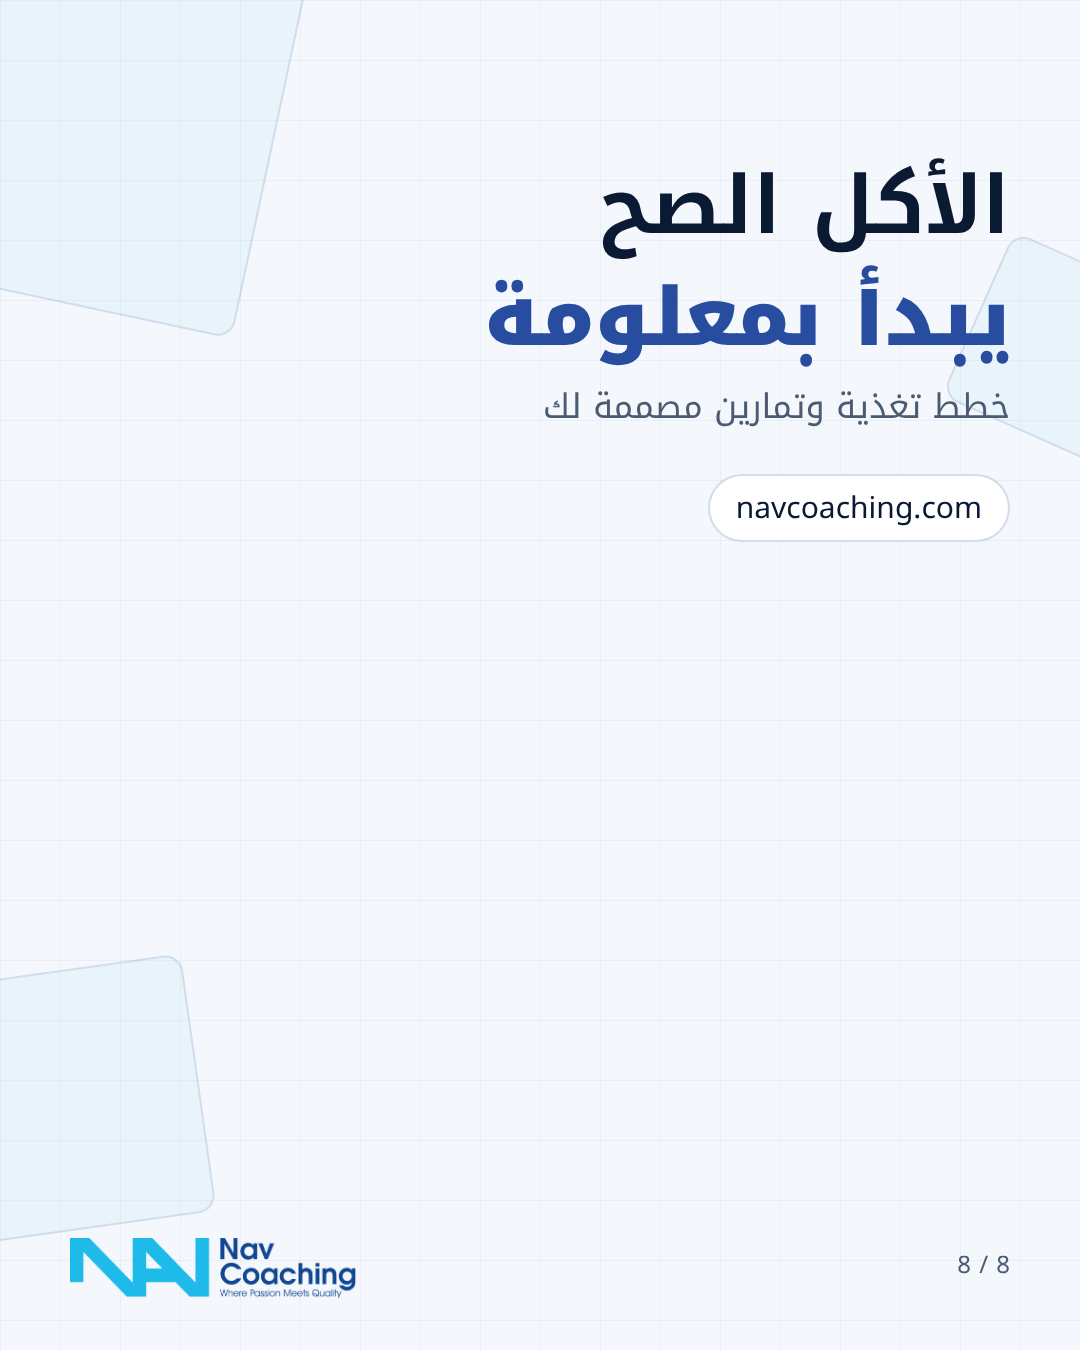
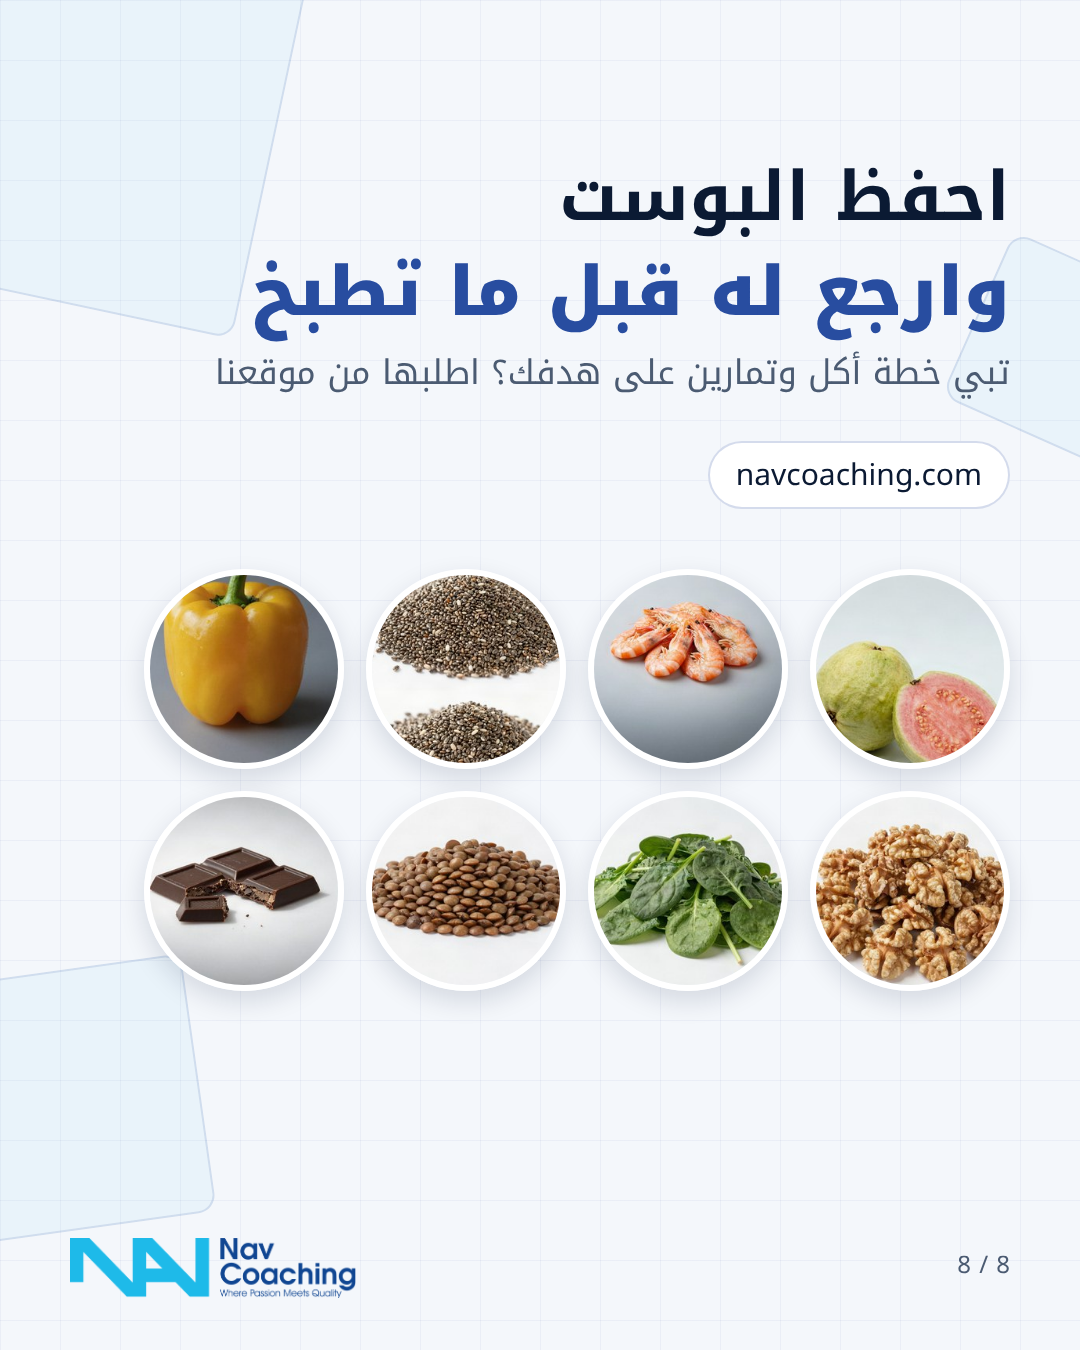
foods carousel: verified values/labels, new hook cover, clearer end slide
Claude-Session: https://claude.ai/code/session_014K8VAaJoHdbEmLTmDkRNee

Changed region(s): [[0.2139, 0.1244, 0.9472, 0.7467], [0.1222, 0.4044, 0.5194, 0.7467], [0.3056, 0.28, 0.3361, 0.3111]]

diff --git a/instagram/foods/slides.html b/instagram/foods/slides.html
@@ -26,19 +26,19 @@ h1 b{color:#284da0}
 .wrap:has(.note) .row{height:88px}.wrap:has(.note) .ph{width:78px;height:78px}
 </style></head><body><div id="root"></div><script>
 const D=[
-['بروتين','أعلى الأطعمة <b>بالبروتين</b>','لكل 100 غرام • اللحوم والأسماك مطبوخة','غ',[['صدر دجاج',31],['تونة',30],['ديك رومي',29],['لحم بقر قليل الدهن',26],['سلمون',25],['روبيان',24],['توفو',17],['بيض',13]]],
-['ألياف','أعلى الأطعمة <b>بالألياف</b>','لكل 100 غرام','غ',[['بذور الشيا',34],['بذور الكتان',27],['فشار',15],['لوز',13],['شوكولاتة داكنة',11],['شوفان',10],['عدس مطبوخ',8],['أفوكادو',7]]],
+['بروتين','أعلى الأطعمة <b>بالبروتين</b>','لكل 100 غرام • اللحوم والأسماك مطبوخة','غ',[['صدر دجاج',31],['تونة مطبوخة',30],['ديك رومي',29],['لحم بقر قليل الدهن',26],['سلمون',25],['روبيان',24],['توفو صلب',17],['بيض',13]]],
+['ألياف','أعلى الأطعمة <b>بالألياف</b>','لكل 100 غرام','غ',[['بذور الشيا',34],['بذور الكتان',27],['فشار بدون زيت',15],['لوز',13],['شوكولاتة داكنة',11],['شوفان',10],['عدس مطبوخ',8],['أفوكادو',7]]],
 ['فيتامين C','أعلى الأطعمة <b>بفيتامين C</b>','لكل 100 غرام','ملغ',[['جوافة',228],['فلفل أصفر',184],['فلفل أحمر',128],['كيوي',93],['بروكلي',89],['بابايا',61],['فراولة',59],['برتقال',53]]],
-['مغنيسيوم','أعلى الأطعمة <b>بالمغنيسيوم</b>','لكل 100 غرام','ملغ',[['بذور الكتان',392],['بذور الشيا',335],['كاجو',290],['لوز',270],['شوكولاتة داكنة',230],['شوفان',138],['سبانخ',87],['فاصوليا سوداء',70]]],
-['أوميغا 3','أعلى الأطعمة <b>بأوميغا 3</b>','لكل 100 غرام','غ',[['بذور الكتان',22.8],['بذور الشيا',17.8],['جوز',9.1],['ماكريل',2.7],['سلمون',2.3],['سردين',1.5]],'⚠ أوميغا 3 النباتي (ALA) يتحول منه 5 إلى 10% فقط إلى EPA/DHA — الأسماك أفضل مصدر مباشر.'],
-['حديد','أعلى الأطعمة <b>بالحديد</b>','لكل 100 غرام','ملغ',[['شوكولاتة داكنة',11.9],['بلح البحر',6.7],['كاجو',6.7],['كبدة بقر',6.5],['توفو',5.4],['سبانخ',3.6],['عدس',3.3],['لحم بقر',2.6]],'⚠ حديد اللحوم يمتصه الجسم أفضل بـ 2 إلى 3 مرات من الحديد النباتي.']];
-const IM={"صدر دجاج": "chicken", "تونة": "tuna", "ديك رومي": "turkey", "لحم بقر قليل الدهن": "beef", "سلمون": "salmon", "روبيان": "shrimp", "توفو": "tofu", "بيض": "eggs", "بذور الشيا": "chia", "بذور الكتان": "flax", "فشار": "popcorn", "لوز": "almonds", "شوكولاتة داكنة": "choc", "شوفان": "oats", "عدس مطبوخ": "lentils", "عدس": "lentils", "أفوكادو": "avocado", "جوافة": "guava", "فلفل أصفر": "ypep", "فلفل أحمر": "rpep", "كيوي": "kiwi", "بروكلي": "broccoli", "بابايا": "papaya", "فراولة": "straw", "برتقال": "orange", "كاجو": "cashews", "سبانخ": "spinach", "فاصوليا سوداء": "bbeans", "جوز": "walnuts", "ماكريل": "mackerel", "سردين": "sardines", "بلح البحر": "mussels", "كبدة بقر": "liver", "لحم بقر": "beef"};
+['مغنيسيوم','أعلى الأطعمة <b>بالمغنيسيوم</b>','لكل 100 غرام','ملغ',[['بذور الكتان',392],['بذور الشيا',335],['كاجو',290],['لوز',270],['شوكولاتة داكنة',230],['شوفان',138],['سبانخ مطبوخ',87],['فاصوليا سوداء',70]]],
+['أوميغا 3','أعلى الأطعمة <b>بأوميغا 3</b>','لكل 100 غرام','غ',[['بذور الكتان',22.8],['بذور الشيا',17.8],['جوز',9.1],['ماكريل',2.7],['سلمون',2.3],['سردين',1.5]],'الجسم يحوّل أقل من 10% من أوميغا 3 النباتي (ALA) للنوع المفيد (EPA/DHA) — عشان كذا السمك أفضل مصدر.'],
+['حديد','أعلى الأطعمة <b>بالحديد</b>','لكل 100 غرام','ملغ',[['شوكولاتة داكنة',11.9],['بلح البحر',6.7],['كاجو',6.7],['كبدة بقر',6.5],['توفو صلب',5.4],['سبانخ مطبوخ',3.6],['عدس',3.3],['لحم بقر',2.6]],'⚠ الجسم يمتص حديد اللحوم والكبدة أكثر بـ 2 إلى 3 مرات من حديد النباتات. أضف ليمون أو فلفل للعدس والسبانخ يرفع الامتصاص.']];
+const IM={"صدر دجاج": "chicken", "تونة مطبوخة":"tuna","توفو صلب":"tofu","فشار بدون زيت":"popcorn","سبانخ مطبوخ":"spinach","تونة": "tuna", "ديك رومي": "turkey", "لحم بقر قليل الدهن": "beef", "سلمون": "salmon", "روبيان": "shrimp", "توفو": "tofu", "بيض": "eggs", "بذور الشيا": "chia", "بذور الكتان": "flax", "فشار": "popcorn", "لوز": "almonds", "شوكولاتة داكنة": "choc", "شوفان": "oats", "عدس مطبوخ": "lentils", "عدس": "lentils", "أفوكادو": "avocado", "جوافة": "guava", "فلفل أصفر": "ypep", "فلفل أحمر": "rpep", "كيوي": "kiwi", "بروكلي": "broccoli", "بابايا": "papaya", "فراولة": "straw", "برتقال": "orange", "كاجو": "cashews", "سبانخ": "spinach", "فاصوليا سوداء": "bbeans", "جوز": "walnuts", "ماكريل": "mackerel", "سردين": "sardines", "بلح البحر": "mussels", "كبدة بقر": "liver", "لحم بقر": "beef"};
 const bg=()=>`<div class="grid"></div><div class="sq" style="width:420px;height:420px;top:-120px;left:-140px"></div><div class="sq" style="width:260px;height:260px;bottom:120px;left:-60px;transform:rotate(-8deg)"></div><div class="sq" style="width:180px;height:180px;top:260px;right:-70px;transform:rotate(24deg)"></div>`;
 const foot=i=>`<img class="logo" src="../../brand/logo-color-hd.png"><div class="n">${i} / 8</div>`;
-let h=`<section class="s cover">${bg()}<div class="wrap"><span class="eb">احفظ البوست 📌</span><h1>أعلى الأطعمة<br><b style="color:#284da0">بالعناصر الغذائية</b></h1><div class="sub">6 قوائم مرتبة بالأرقام — لكل 100 غرام</div><div class="chips">${D.map(d=>`<span>${d[0]}</span>`).join('')}</div><div class="col">${['chicken','salmon','avocado','straw','almonds','broccoli','kiwi','eggs'].map(k=>`<img src="img/${k}.jpg">`).join('')}</div></div>${foot(1)}</section>`;
+let h=`<section class="s cover">${bg()}<div class="wrap"><span class="eb">احفظ البوست 📌</span><h1>تاكل كثير…<br><b style="color:#284da0">وجسمك جوعان؟</b></h1><div class="sub">6 عناصر يحتاجها جسمك يوميًا — وأعلى الأكلات فيها بالأرقام</div><div class="chips">${D.map(d=>`<span>${d[0]}</span>`).join('')}</div><div class="col">${['chicken','salmon','avocado','straw','almonds','broccoli','kiwi','eggs'].map(k=>`<img src="img/${k}.jpg">`).join('')}</div></div>${foot(1)}</section>`;
 D.forEach((d,k)=>{const m=Math.max(...d[4].map(x=>x[1]));
 h+=`<section class="s">${bg()}<div class="wrap"><span class="eb">${d[0]}</span><h1>${d[1]}</h1><div class="sub">${d[2]}</div>${d[4].map(([n,v])=>`<div class="row"><img class="ph" src="img/${IM[n]}.jpg"><div class="lb">${n}</div><div class="tr"><div class="br" style="width:${Math.max(4,v/m*100)}%"></div></div><div class="v">${v} <small>${d[3]}</small></div></div>`).join('')}${d[5]?`<div class="note">${d[5]}</div>`:''}</div>${foot(k+2)}</section>`});
-h+=`<section class="s cover">${bg()}<div class="wrap"><h1 style="font-size:80px">الأكل الصح<br><b style="color:#284da0">يبدأ بمعلومة</b></h1><div class="sub">خطط تغذية وتمارين مصممة لك</div><div class="chips"><span>navcoaching.com</span></div></div>${foot(8)}</section>`;
+h+=`<section class="s cover">${bg()}<div class="wrap"><h1 style="font-size:68px">احفظ البوست<br><b style="color:#284da0">وارجع له قبل ما تطبخ</b></h1><div class="sub">تبي خطة أكل وتمارين على هدفك؟ اطلبها من موقعنا</div><div class="chips"><span>navcoaching.com</span></div><div class="col">${['guava','shrimp','chia','ypep','walnuts','spinach','lentils','choc'].map(k=>`<img src="img/${k}.jpg">`).join('')}</div></div>${foot(8)}</section>`;
 root.innerHTML=h;
 document.querySelectorAll('.lb').forEach(e=>{let f=32;while(e.scrollHeight>52&&f>22){e.style.fontSize=--f+'px'}});
 </script></body></html>
